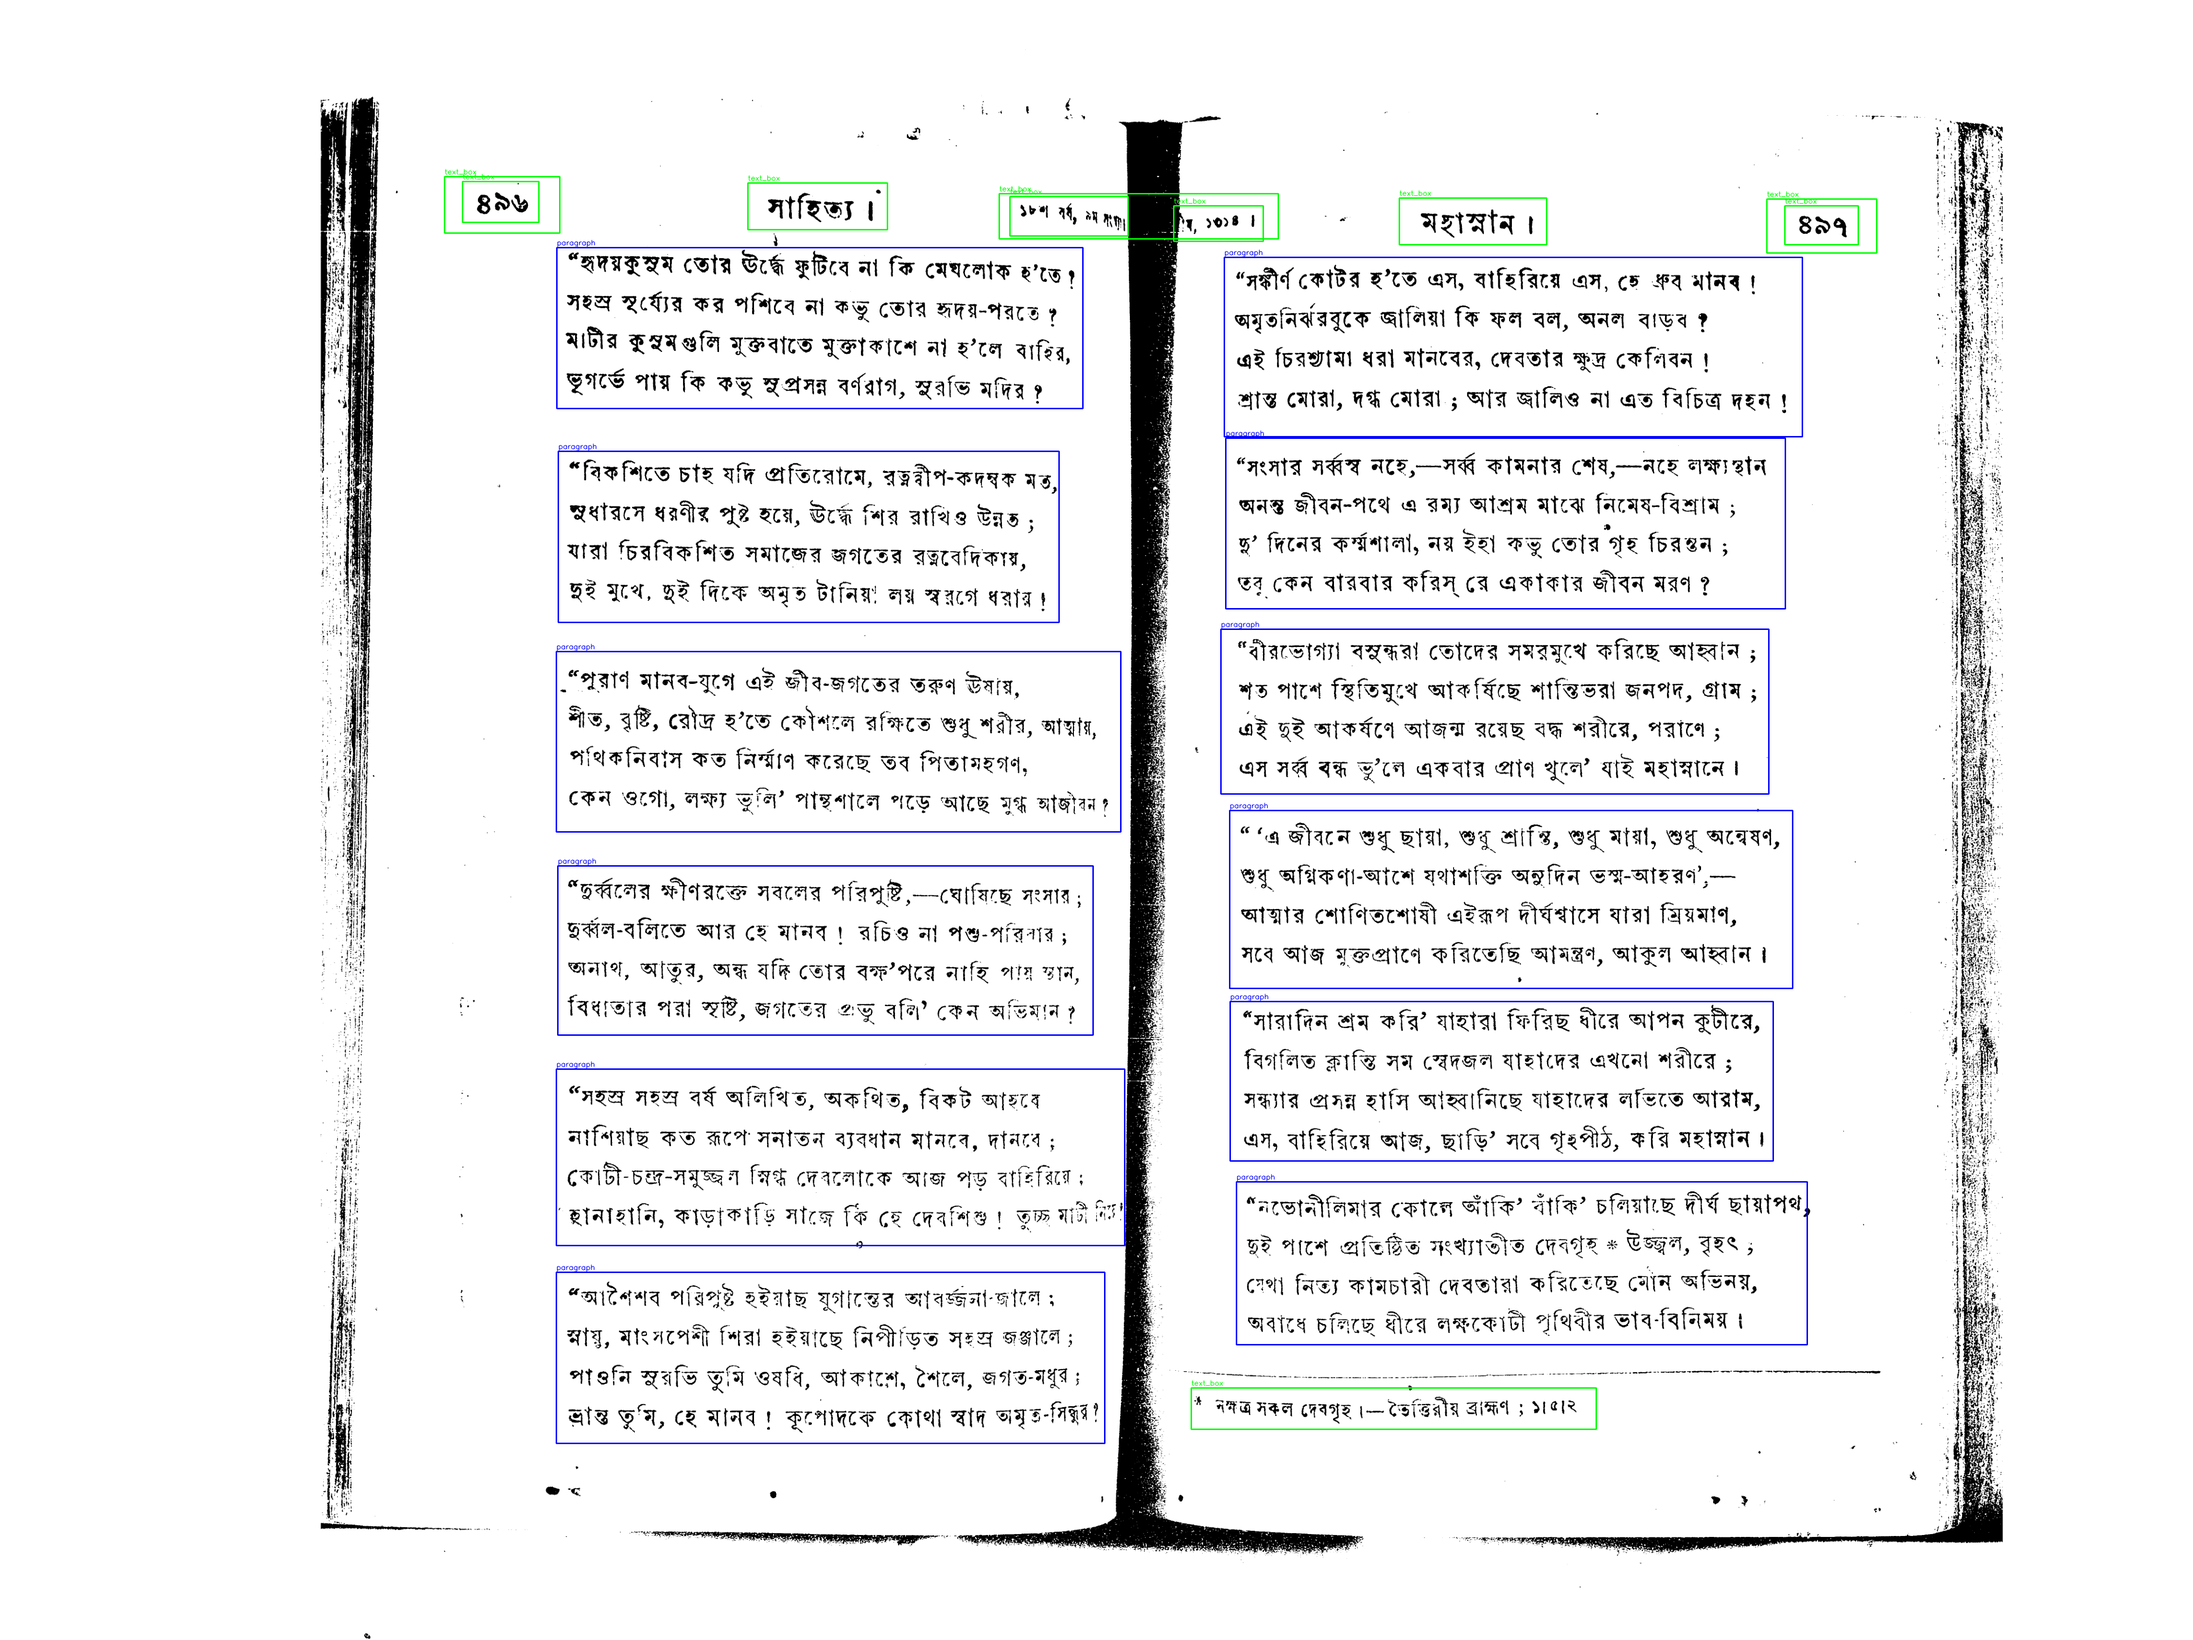
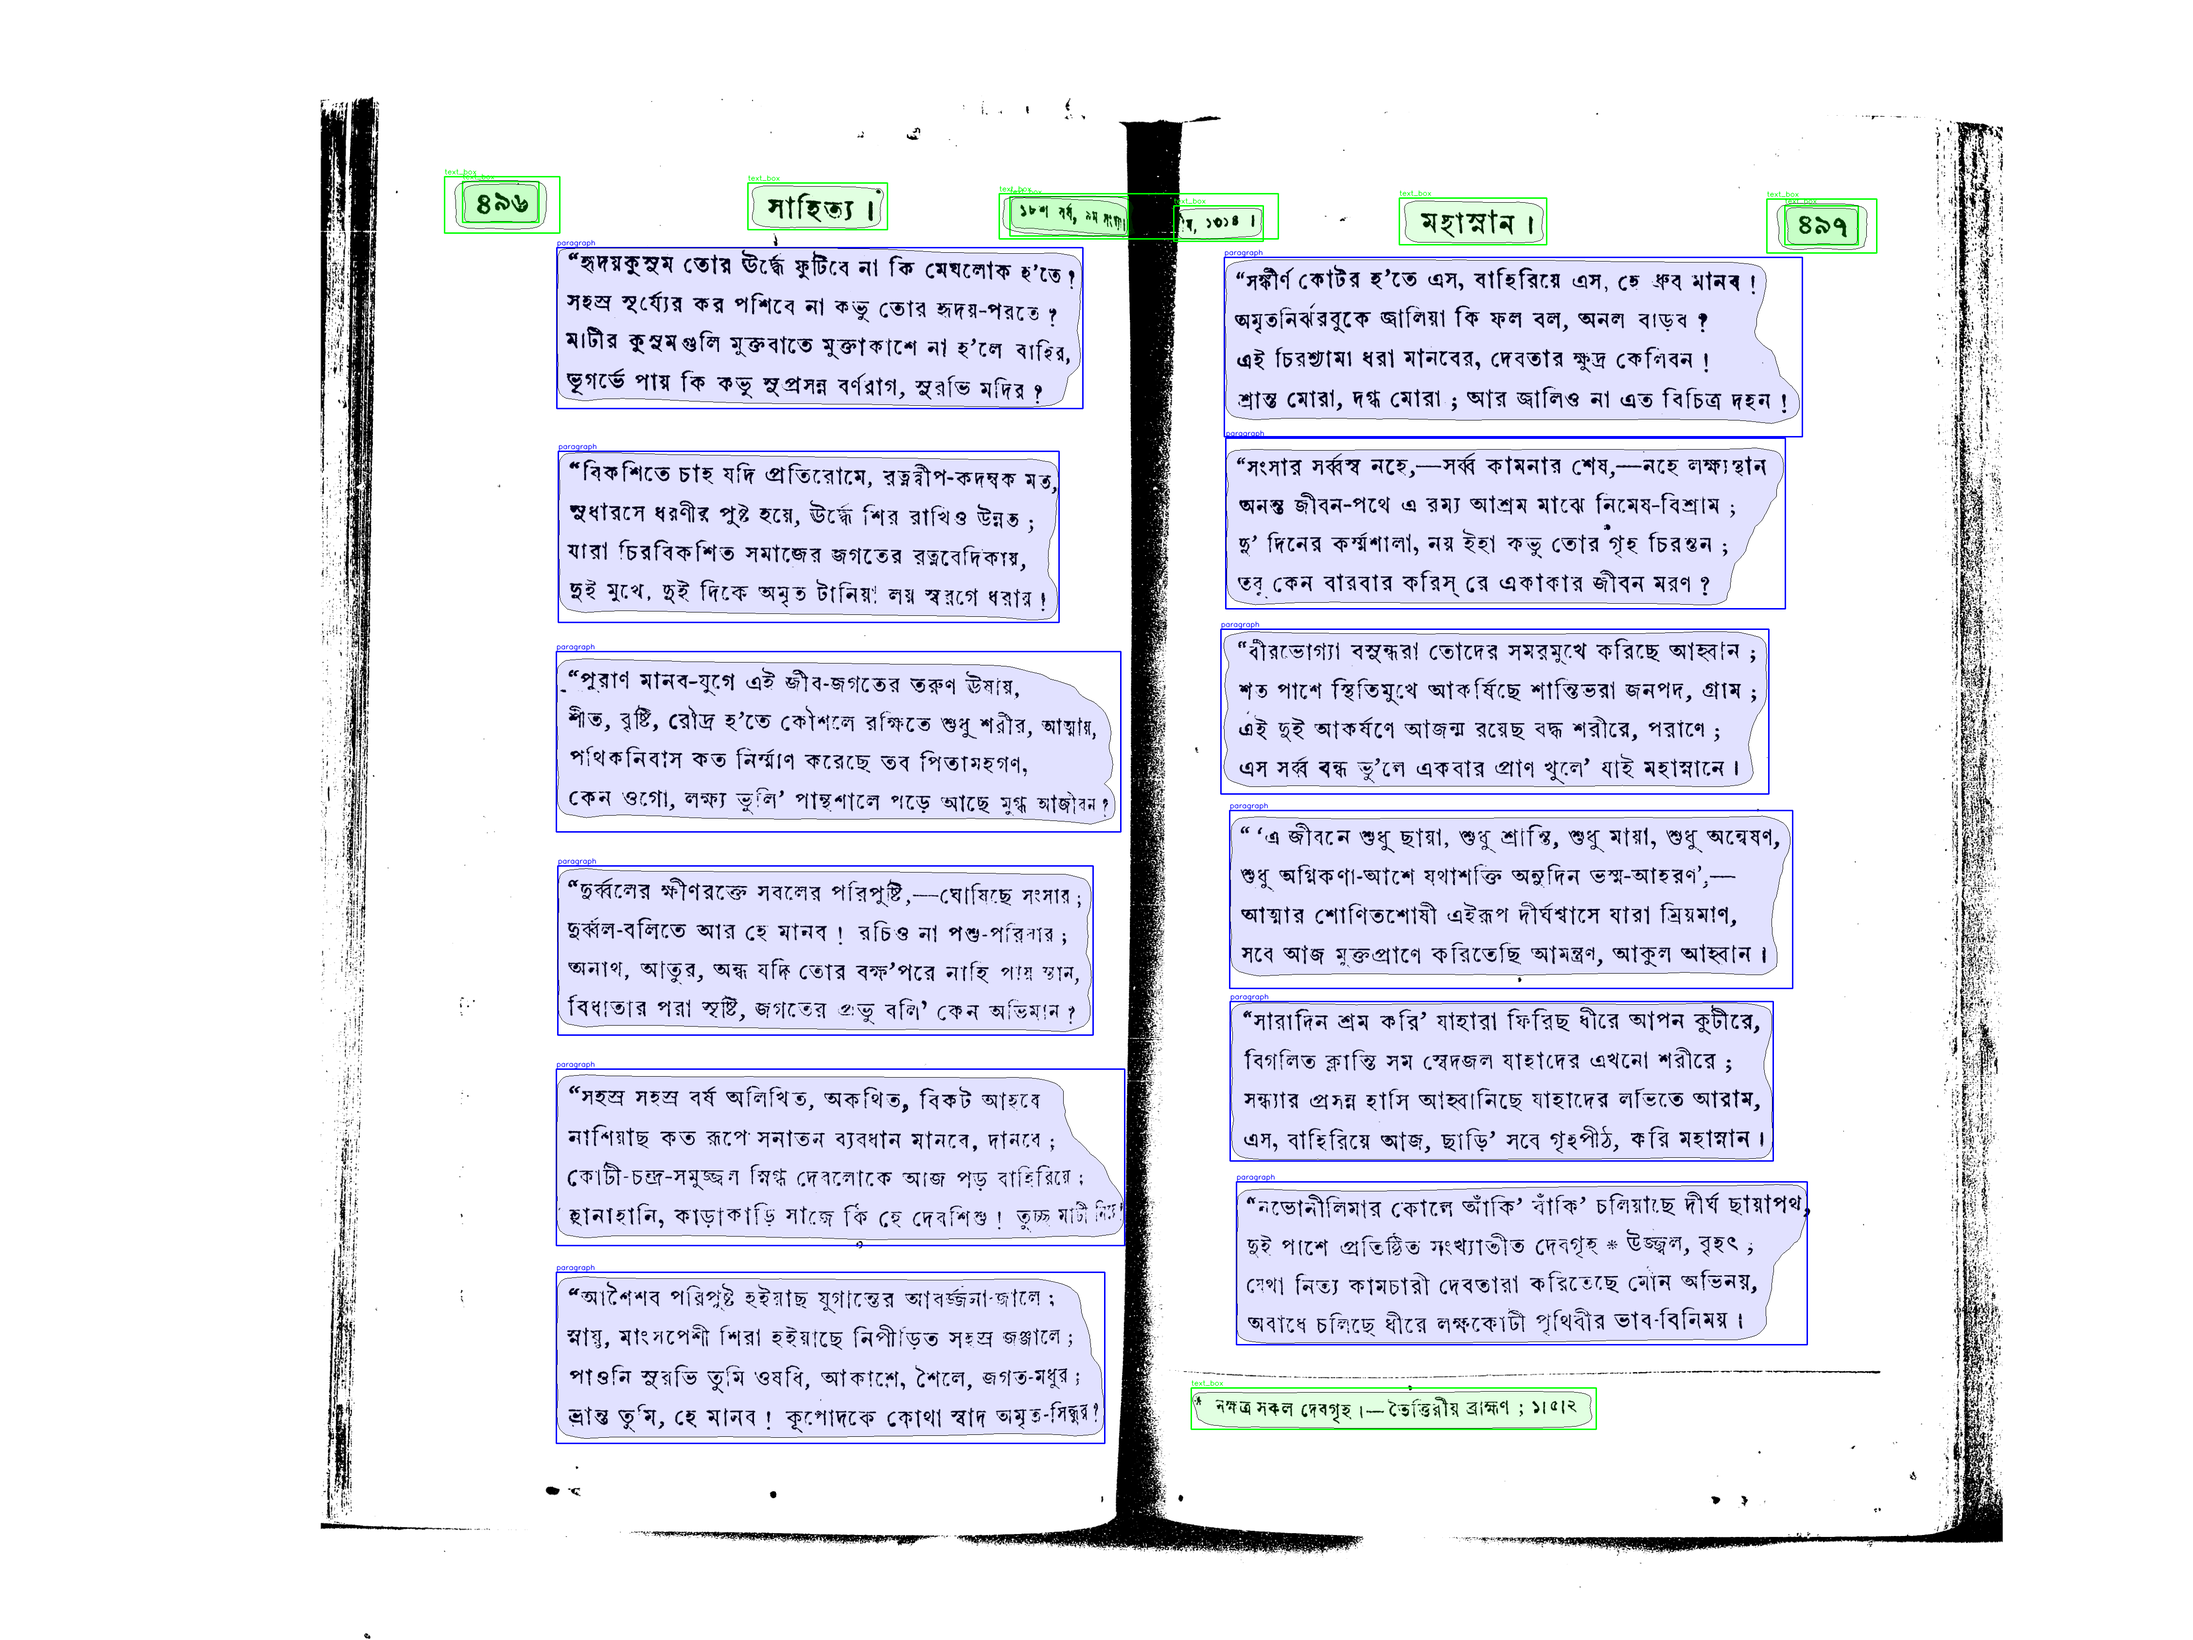
polygon coordiante extraction as well as visualization code integration

Changed region(s): [[0.1862, 0.0934, 0.838, 0.9025], [0.2483, 0.4046, 0.5276, 0.4979], [0.8069, 0.1245, 0.869, 0.1556]]

diff --git a/inference.py b/inference.py
@@ -1,7 +1,9 @@
 import os
 import json
+import glob
 import cv2
-import numpy as np 
+import numpy as np
+import torch 
 import matplotlib.pyplot as plt
 # import some common detectron2 utilities
 from detectron2 import model_zoo
@@ -9,7 +11,11 @@ from detectron2.engine import DefaultPredictor
 from detectron2.config import get_cfg
 from detectron2.utils.visualizer import Visualizer
 from detectron2.utils.visualizer import ColorMode
+from utility.visulization import draw_mask
 
+device = torch.device('cuda' if torch.cuda.is_available() else 'cpu') 
+
+DEBUG = True
 
 classes = ["paragraph", "text_box", "image", "table"]
 
@@ -21,6 +27,26 @@ COLORS = {
     2: (0, 0, 255), 
     3: (0, 255, 255)
     }
+
+def masks_processing(mask, img_dim):
+    H, W = img_dim[0], img_dim[1]
+    mask = mask* 255
+    mask  = mask.astype('uint8')
+    mask = cv2.resize(mask, (W, H))
+    contours, _ = cv2.findContours(mask, cv2.RETR_EXTERNAL, cv2.CHAIN_APPROX_SIMPLE)
+    # Extract the contour points from the largest contour
+    largest_contour = max(contours, key=cv2.contourArea)
+    contour_points = largest_contour.reshape(-1, 2)
+    contour_points = contour_points.reshape((-1, 1, 2))
+
+    allx_ally = [(i[0][0], i[0][1]) for i in contour_points.tolist()]
+
+    return allx_ally
+
+def get_polygon_of_masks(masks, img_dim):
+    img_dims = [img_dim]*len(masks)
+    p_polygon = list(map(masks_processing, masks, img_dims))
+    return p_polygon
 
 
 def get_configuration(model_path, config_path):
@@ -40,8 +66,7 @@ def model_loading(cfg):
     return predictor
 
 def prediction(predictor, img, file_name="unknown.jpg", output_dir = "logs"):
-
-    print(img.shape)
+    H, W, _ = img.shape
 
     outputs = predictor(img)
     v = Visualizer(img[:, :, ::-1],
@@ -61,32 +86,32 @@ def prediction(predictor, img, file_name="unknown.jpg", output_dir = "logs"):
         cv2.putText(img, CLASS_DICT[_cls], (box[0], box[1] - 5), cv2.FONT_HERSHEY_SIMPLEX, 0.5, \
                         COLORS[_cls], 1, lineType=cv2.LINE_AA)
         cv2.rectangle(img, (box[0], box[1]),(box[2], box[3]),  COLORS[_cls], 2)
-
-    print("keypoints :", keypoints)
-
     if predictions.has("pred_masks"):
         masks = np.asarray(predictions.pred_masks)
-        print(masks)
-        # masks = [GenericMask(x, self.output.height, self.output.width) for x in masks]
+        masks = [mask.astype(int) for mask in masks]
 
+        polyon_coordinates = get_polygon_of_masks(masks, img_dim=[H, W])
 
-    out = v.draw_instance_predictions(outputs["instances"].to("cpu"))
-    image_out = out.get_image()[:, :, ::-1]
-
-    print("after shape", image_out.shape)
-    # plt.show()
+        img = draw_mask(img, polyon_coordinates, classes)
     cv2.imwrite(os.path.join(output_dir, file_name), img)
 
 if __name__ == "__main__":
-
+    from tqdm import tqdm 
     config_path = "./configs/COCO-InstanceSegmentation/mask_rcnn_R_101_FPN_3x.yaml"
     model_path = "/media/sayan/hdd1/CV/BN-LDA-DETECTORN2/model/model_final.pth"
-    image_path = "/media/sayan/hdd1/CV/BN-LDA-DETECTORN2/image/1cb63ad5-a85c-4969-a5cb-4a95723409ba.png"
+    image_path = "/media/sayan/hdd1/CV/BN-LDA-DETECTORN2/image"
 
     output_dir = "logs"
     os.makedirs(output_dir, exist_ok=True)
-    file_name = os.path.basename(image_path)
-    img = cv2.imread(image_path)
+
+    print("Model Loading .........")
     cfg = get_configuration(model_path, config_path)
     model = model_loading(cfg)
-    prediction(model, img, file_name, output_dir) 
+    print("Done")
+
+    image_files = glob.glob(image_path+"/*")
+    for i in tqdm(range(len(image_files))):
+        file_ = image_files[i]
+        file_name = os.path.basename(file_)
+        img = cv2.imread(file_)
+        prediction(model, img, file_name, output_dir) 

diff --git a/utility/visulization.py b/utility/visulization.py
@@ -1,0 +1,50 @@
+import os
+import cv2
+import numpy as np
+from PIL import Image, ImageDraw
+import matplotlib.pyplot as plt
+
+CLASS_DICT = {
+    0: 'paragraph', 
+    1: 'text_box', 
+    2: 'image', 
+    3: 'table'
+    }
+COLORS = {
+    0: (255, 0, 0), 
+    1: (0, 255, 0), 
+    2: (0, 0, 255), 
+    3: (0, 255, 255)
+    }
+
+def draw_mask(image, masks_poly, _class):
+
+    """
+    mask draw
+    
+    """
+    image = Image.fromarray(image)
+    for x_y, _cls in zip(masks_poly, _class):
+        color = COLORS[int(_cls)]
+        poly = Image.new('RGBA', image.size)
+        pdraw = ImageDraw.Draw(poly)
+        pdraw.polygon(x_y, fill=(color[0], color[1], color[2], 30), outline=(0,0,0,255))
+        image.paste(poly,mask=poly)
+    # return image
+    return np.asarray(image)
+
+
+def draw_bbox(img, prediction_data):
+
+    """
+    draw bbox
+    """
+
+    for c, b, cl in zip(prediction_data["confidence"], \
+                        prediction_data["bboxs"], prediction_data["class"]):
+        bbox = [int(i) for i in b]
+        class_ = CLASS_DICT[int(cl)]
+        cv2.putText(img, class_+":"+str(round(c, 2)), (bbox[0], bbox[1] - 5), cv2.FONT_HERSHEY_SIMPLEX, 0.5, \
+                        COLORS[int(cl)], 1, lineType=cv2.LINE_AA)
+        cv2.rectangle(img, (bbox[0], bbox[1]),(bbox[2], bbox[3]),  COLORS[int(cl)], 1)
+    return img
